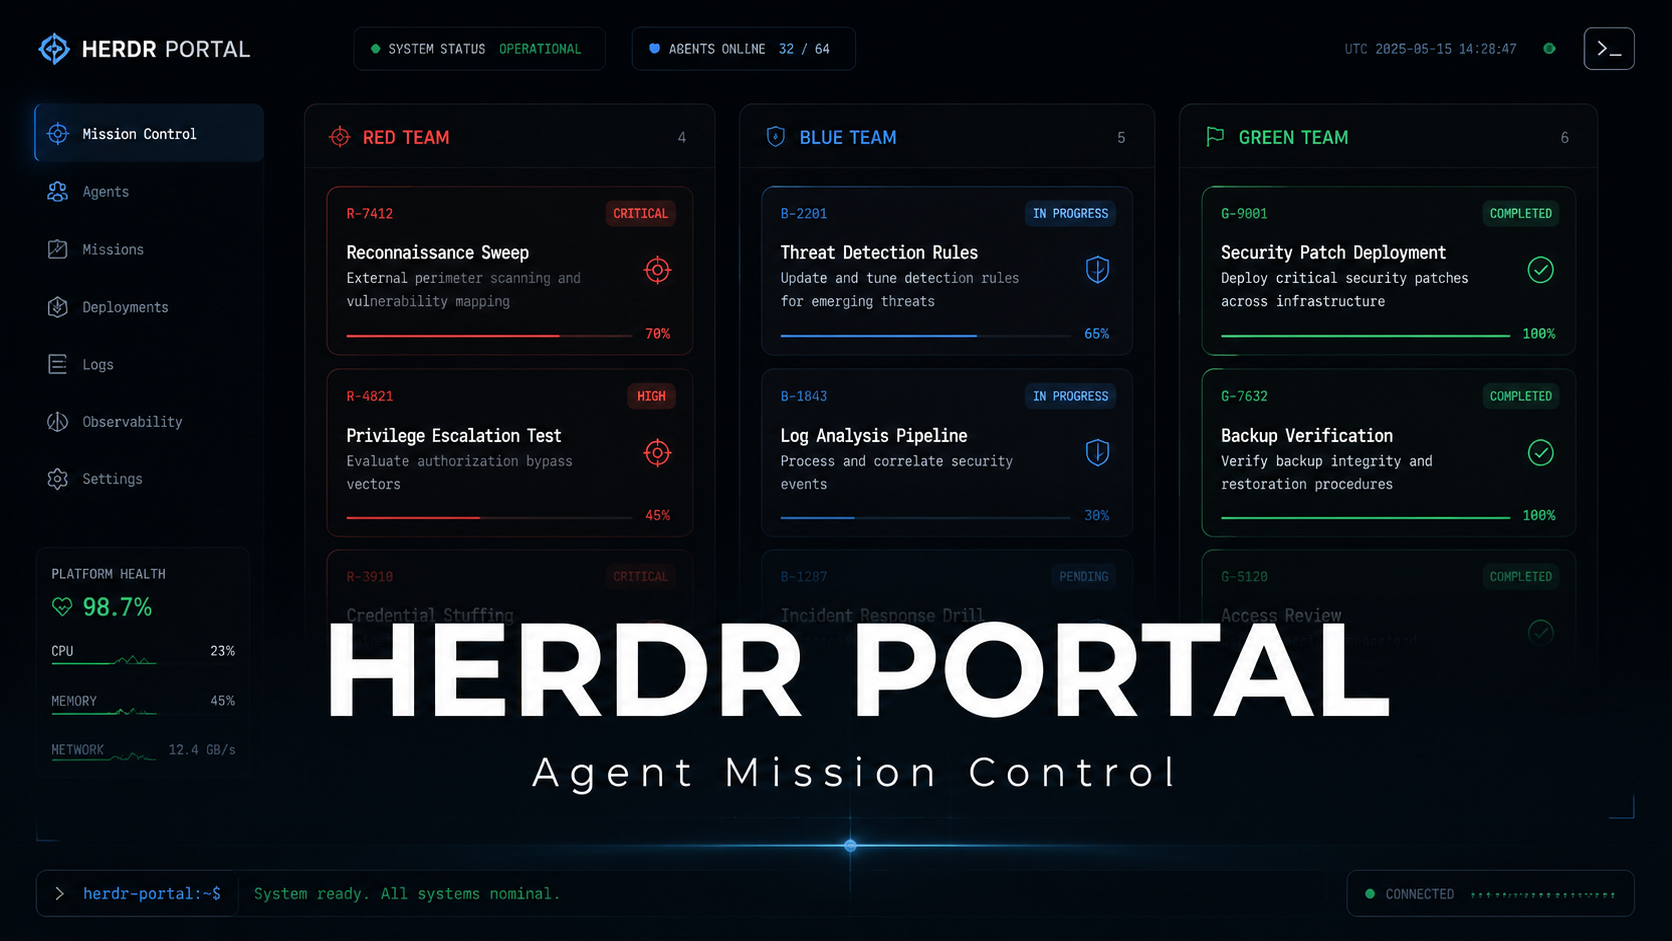
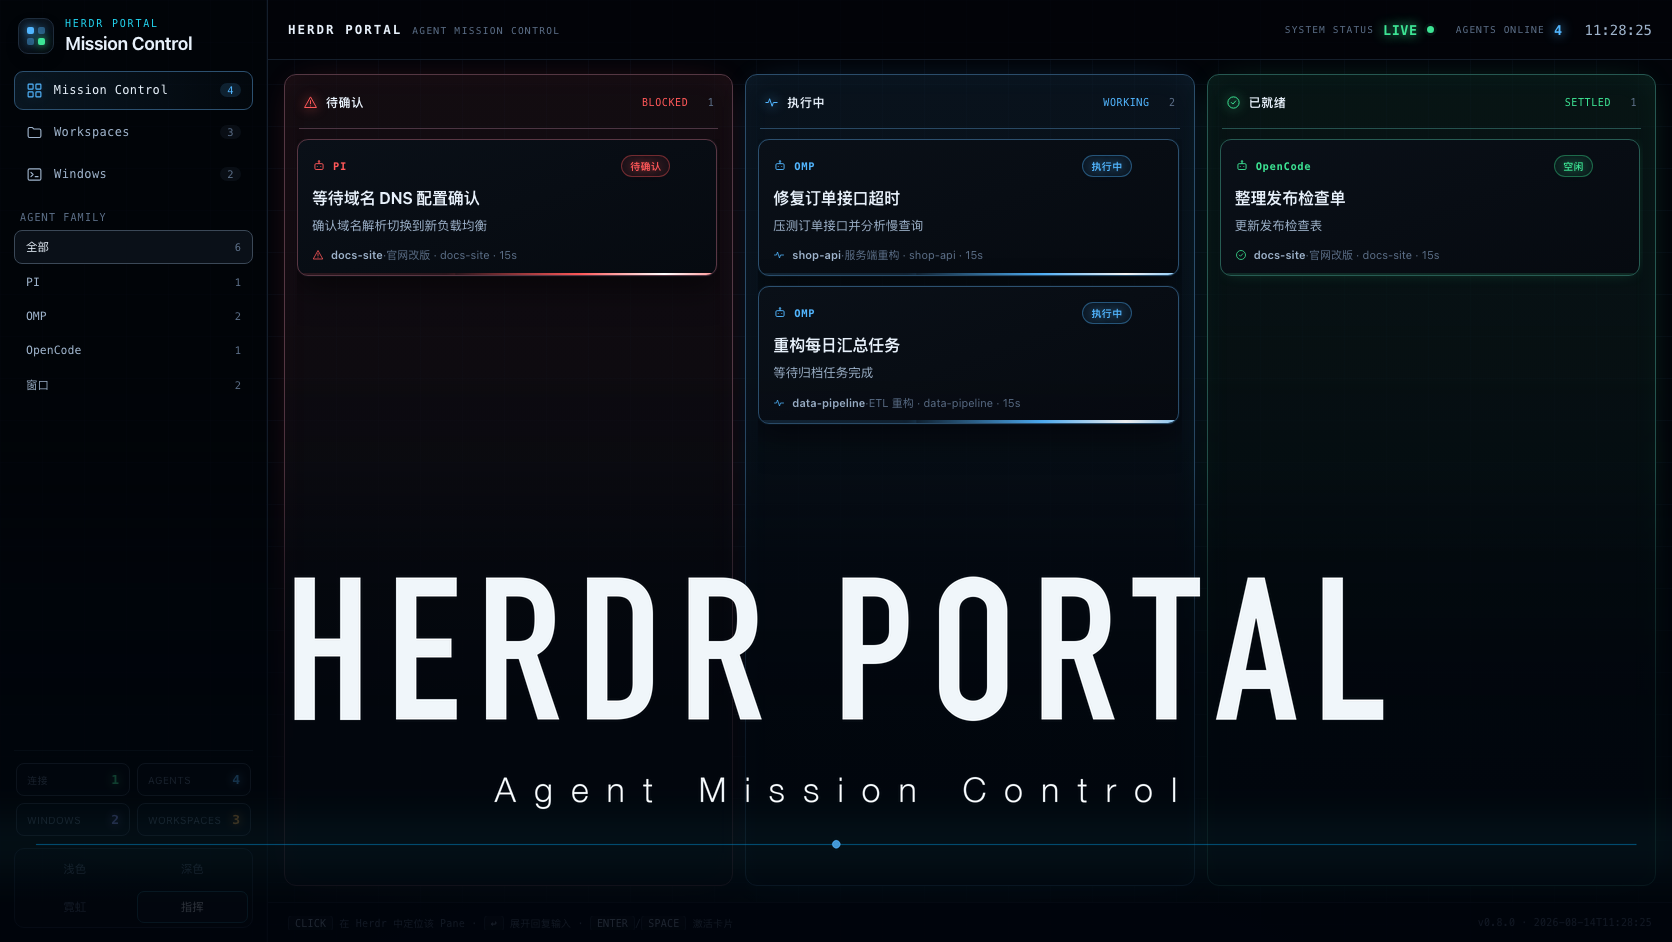
docs: 基于真实脱敏界面重做 README 封面

diff --git a/README.md b/README.md
@@ -1,6 +1,6 @@
 # herdr-portal
 
-![banner](assets/banner.png)
+![HERDR Portal · 基于真实脱敏界面的 README 封面](assets/banner.png)
 
 **HERDR 全局看板** — 把当前 Herdr 会话里的全部 workspace / tab / pane 聚合成一块实时看板。一个插件，两种形态：
 
